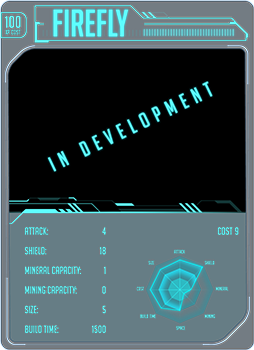
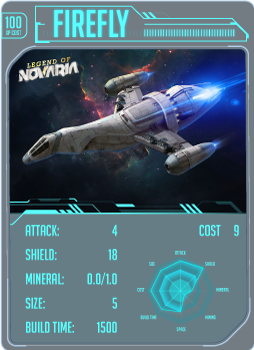
update header, shipyard cards

diff --git a/src/views/Novaria/Novaria.tsx b/src/views/Novaria/Novaria.tsx
@@ -12,32 +12,6 @@ import logo from './assets/novariaLogoMain.png'
 import 'react-modal-video/scss/modal-video.scss'
 
 
-
-const WalletProvider = ({ children }) => {
-  const wallet = useWallet()
-
-  if (wallet.status === 'connecting') {
-    return <PageLoader />
-  }
-
-  if (
-    wallet.status === 'disconnected' ||
-    wallet.status === 'error' ||
-    (wallet.status === 'connected' && wallet.account === null)
-  ) {
-    if (wallet.error) {
-      console.log(wallet.error)
-    }
-    return (
-      <Page style={{ display: 'flex', justifyContent: 'center', alignItems: 'center' }}>
-        <Text fontSize="3rem">Please, connect your wallet.</Text>
-      </Page>
-    )
-  }
-
-  return <ConnectedAccountContext.Provider value={wallet.account}>{children}</ConnectedAccountContext.Provider>
-}
-
 const Page1 = styled(Page)`
   // background-image:url('/images/home/mainBackground-dark.jpg');
   // background-size:cover ;
@@ -121,7 +95,7 @@ const Button = styled.button`
 const Novaria: React.FC = () => {
   const account = useContext(ConnectedAccountContext)
   const [isOpen, setOpen] = useState(false)
-  const [pendingTx, setPendingTx] = useState(false)
+  const [pending, setPendingTx] = useState(false)
   const [name, setName] = useState('')
 
   const fleetContract = getFleetAddress()
@@ -132,7 +106,7 @@ const Novaria: React.FC = () => {
   const allowanceFleet = useGetAllowance(fleetContract)
   const allowanceMap = useGetAllowance(mapContract)
   const allowanceTreasury = useGetAllowance(treasuryContract)
-  const isAllowed =  allowanceTreasury > 0 && allowanceFleet > 0 && allowanceMap > 0
+  const isAllowed =  allowanceTreasury > 0 && allowanceFleet > 0 
   const playerExists = useGetPlayerExists(account)
   console.log('allowed, exists', isAllowed, playerExists)
   const { onClick } = useApprove()
@@ -187,18 +161,17 @@ const Novaria: React.FC = () => {
             videoId="VRH2LvKXKEQ"
             onClose={() => setOpen(false)}
           />
-          <SubHeading>
+         <SubHeading>
             {!isAllowed && 'Step 1 - approve Fleet, Treasury, and Map contracts for the game'}<br />
-          {allowanceFleet <= 0 ? <Button onClick={handleFleetApprove}>Approve Fleet Contract</Button> : ''}
-          {allowanceTreasury <= 0 ? <Button onClick={handleTreasuryApprove}>Approve Treasury Contract</Button> : ''}
-          {allowanceMap <= 0 ? <Button onClick={handleMapApprove}>Approve Map Contract</Button> : ''}
+          {allowanceFleet <= 0 ? <Button onClick={handleFleetApprove}>{!pending ? 'Approve Fleet Contract' : 'pending...'}</Button> : ''}
+          {allowanceTreasury <= 0 ? <Button onClick={handleTreasuryApprove}>{!pending ? 'Approve Treasury Contract' : 'pending...'}</Button> : ''}
 
           {/* Eventually this needs to have a confirm popup to make sure name set correctly */}
           {isAllowed && !playerExists ? 
             <div>
               Step 2 - Set your player name <br />
               <input type="text" required maxLength={16} onChange={(e) => setName(e.target.value)} />
-              <Button onClick={sendInsertCoinTx}>Set Player Name</Button>
+              <Button onClick={sendInsertCoinTx}>{!pending ? 'Set Player Name' : 'pending...'}</Button>
               <br />(costs 1 nova)
             </div> : ''}
           {playerExists ? <a href='/overview'><Button>Start Game</Button></a> : ''}
@@ -209,7 +182,8 @@ const Novaria: React.FC = () => {
           <Button type="button" onClick={()=> {setOpen(true)}} >Trailer</Button>
           <a href='https://discord.gg/vQdxbGx9pV' rel='noopener noreferrer' target='blank'><Button type="button" >Official Discord</Button></a>
           
-          </SubHeading></Column>
+          </SubHeading>
+          </Column>
       </Body>
     </Page1>
   )

diff --git a/src/views/Novaria/Map/Map.tsx b/src/views/Novaria/Map/Map.tsx
@@ -1,6 +1,5 @@
 import React, { useEffect, useState, useContext } from 'react'
 import { Link } from 'react-router-dom'
-import { Text, useModal } from '@pancakeswap-libs/uikit'
 import { ConnectedAccountContext } from 'App'
 import { useGetFleetLocation, useGetFleetMineral, useGetPlayer } from 'hooks/useNovaria'
 import styled from 'styled-components'
@@ -47,7 +46,7 @@ export interface GridProps {
 }
 
 const Page = styled.div`
-  background-image: url('/images/novaria/mapBG.jpg');
+  // background-image: url('/images/novaria/mapBG.jpg');
   background-size: cover;
   font-size: 15px;
   color: #5affff;
@@ -61,6 +60,11 @@ const Body = styled.div`
   display: flex;
   flex-direction: column;
   margin: 10px 0px 0px 0px;
+`
+
+const Text = styled.text`
+  color: #5affff;
+  font-weight: medium;
 `
 
 const Grid = styled.div`
@@ -318,8 +322,9 @@ const Map: React.FC = () => {
 
   }
 
-  const playerEXP = useGetPlayer(account.toString()).experience
-
+  const player = useGetPlayer(account.toString())
+  const playerEXP = player.experience
+  const playerName = player.name
 
   if (!mapData) {
     return null
@@ -330,7 +335,7 @@ const Map: React.FC = () => {
   return (
     <Page >
       <FlipScreenModal isMobile={isMobile}/>
-      <GameHeader location={fleetLocation} playerMineral={fleetMineral} exp={playerEXP} />
+      <GameHeader location={fleetLocation} playerMineral={fleetMineral} exp={playerEXP}  playerName={playerName} />
       <MainRow>
         <GameMenu pageName="starmap" />
         <Body>
@@ -347,7 +352,7 @@ const Map: React.FC = () => {
                       }}
                     >
                       <GridCellContent aria-haspopup="true">
-                        <Text bold glowing>
+                        <Text >
                           {planet.name}
                         </Text>
                         {/* <Unexplored>
@@ -358,6 +363,11 @@ const Map: React.FC = () => {
                           {planet.hasRefinery === true && <GridIcon src={refineryLogo} alt="planet has refinery" />}
                           {planet.hasShipyard === true && <GridIcon src={shipyardLogo} alt="planet has shipyard" />}
                           {planet.availableMineral > 0 && <GridIcon src={mineralLogo} alt="planet has minerals" />}
+                          {planet.placeType === '5' && <GridCellImg src={asteroid} alt="asteroid" />}
+                          {(Number(ry)+Number(mapData.y0)).toString() === fleetLocation.Y.toString() &&
+                            (Number(x)+Number(mapData.x0)).toString() === fleetLocation.X.toString() && (
+                              <IndicatorImg src={youLogo} alt="current location" />
+                            )}
 
                           {planet.fleetCount > 0 && planet.fleetCount < 11 && (
                             <GridIcon src={lowPlayers} alt="planet has few players" />
@@ -379,11 +389,6 @@ const Map: React.FC = () => {
                           ) : (
                             ''
                           )}
-                          {planet.placeType === '5' && <GridCellImg src={asteroid} alt="asteroid" />}
-                          {(Number(ry)+Number(mapData.y0)).toString() === fleetLocation.Y.toString() &&
-                            (Number(x)+Number(mapData.x0)).toString() === fleetLocation.X.toString() && (
-                              <IndicatorImg src={youLogo} alt="current location" />
-                            )}
                         </Row>
                         <GridCellId>
                           ( {Number(x)+Number(mapData.x0) } ,{Number(ry)+Number(mapData.y0)})

diff --git a/src/views/Novaria/components/GameHeader.tsx b/src/views/Novaria/components/GameHeader.tsx
@@ -56,12 +56,15 @@ const ConnectButton = styled.button`
   width: 125px;
 `
 
-const GameHeader = ({ location, playerMineral, exp }) => {
+const GameHeader = ({ location, playerMineral, exp, playerName }) => {
   const { account, connect, reset, status } = useWallet()
   const { onPresentConnectModal } = useWalletModal(connect, reset)
   const novaBalance = getBalanceNumber(useTokenBalance(getNovaAddress()))
   const novaPrice = Number(usePriceNovaBusd()).toFixed(3)
 
+  const logout = async () => {
+    reset()
+  }
   const inBattle = useGetPlayerBattleStatus(account)
   const connected = status === 'connected'
   // eslint-disable-next-line prefer-template
@@ -73,8 +76,6 @@ const GameHeader = ({ location, playerMineral, exp }) => {
         <Logo src={smallLogo} alt="Novaria Logo" />
       </a>
       <InfoBlock>
-        {!connected && <ConnectButton onClick={onPresentConnectModal}>Connect Wallet</ConnectButton>}
-        {connected && <ConnectButton onClick={reset}>{accountAddress}</ConnectButton>}
         <div style={{ flexDirection: 'row', display: 'flex', alignItems: 'center' }}>
         <a href='https://poocoin.app/tokens/0x56e344be9a7a7a1d27c854628483efd67c11214f' target='blank' rel='noreferrer noopener'  >
           <img src="https://shibanova.io/logo.png" alt="nova logo" style={{ height: 30, margin: 5 }} /> 
@@ -84,7 +85,7 @@ const GameHeader = ({ location, playerMineral, exp }) => {
         </a>
         </div>
         <Text glowing>
-          NOVA Balance: <span style={{ color: 'gold' }}>{novaBalance.toFixed(2)}</span>
+          NOVA: <span style={{ color: 'gold' }}>{novaBalance.toFixed(2)}</span>
         </Text>
         <Text glowing>
           MINERAL: <span style={{ color: 'gold' }}>{(playerMineral / 10 ** 18).toFixed(3)}</span>
@@ -93,8 +94,13 @@ const GameHeader = ({ location, playerMineral, exp }) => {
           EXP: <span style={{ color: 'gold' }}>{exp}</span>
         </Text>
         <Text glowing>
-          Current Location: ({location.X}, {location.Y})
+          Location: ({location.X}, {location.Y})
         </Text>
+        <Text glowing>
+        <span style={{ color: 'gold' }}>{playerName}</span>
+        </Text>
+        {!connected && <ConnectButton onClick={onPresentConnectModal}>Connect Wallet</ConnectButton>}
+        {connected && <ConnectButton onClick={logout}>{accountAddress}</ConnectButton>}
       </InfoBlock>
     </Hero>
   )

diff --git a/src/views/Novaria/Location/Location.tsx b/src/views/Novaria/Location/Location.tsx
@@ -37,7 +37,7 @@ import ShipyardTakeover from './ShipyardTakeover'
 const Page = styled.div`
   font-family: 'BigNoodle', sans-serif;
 
-  background-image: url('/images/novaria/mapBG.jpg');
+ // background-image: url('/images/novaria/mapBG.jpg');
   background-size: cover;
 
   font-size: 15px;
@@ -191,7 +191,9 @@ const Location: React.FC = () => {
   const currentMiningCooldown = new Date(useGetCurrentMiningCooldown(account) * 1000)
   const playerBattleStatus = useGetPlayerBattleStatus(account)
   const playerBattleInfo = useGetPlayerBattle(account)
-  const playerEXP = useGetPlayer(account).experience
+  const player = useGetPlayer(account.toString())
+  const playerEXP = player.experience
+  const playerName = player.name
   const shipyards = useGetShipyards()
   const isDiscoverer = placeInfo.discoverer === account
 
@@ -199,7 +201,7 @@ const Location: React.FC = () => {
 
   return (
     <Page className="fontsforweb_bignoodletitling">
-      <GameHeader location={fleetLocation} playerMineral={fleetMineral} exp={playerEXP} />
+      <GameHeader location={fleetLocation} playerMineral={fleetMineral} exp={playerEXP}  playerName={playerName} />
       <Row>
         <GameMenu pageName="location" />
         <Body>

diff --git a/src/views/Novaria/Shipyard/Shipyard.tsx b/src/views/Novaria/Shipyard/Shipyard.tsx
@@ -38,7 +38,7 @@ import fireflyQueue from '../assets/fireflyQueue.png'
 import YourFleetStats from '../Location/YourFleetStats'
 
 const Page = styled.div`
-  background-image: url('/images/novaria/shipyardBG.jpg');
+  // background-image: url('/images/novaria/shipyardBG.jpg');
   background-size: cover;
 
   font-size: 15px;
@@ -300,7 +300,9 @@ const Shipyard = () => {
   const miningCapacity = useGetMiningCapacity(account)
   const fleetLocation = useGetFleetLocation(account)
   const fleetMineral = useGetFleetMineral(account)
-  const playerEXP = useGetPlayer(account.toString()).experience
+  const player = useGetPlayer(account.toString())
+  const playerEXP = player.experience
+  const playerName = player.name
 
   const [shipyard, setShipyard] = useState(null)
   const [shipyardName, setShipyardName] = useState(null)
@@ -481,7 +483,7 @@ const Shipyard = () => {
 
   return (
     <Page>
-      <GameHeader location={fleetLocation} playerMineral={fleetMineral} exp={playerEXP} />
+      <GameHeader location={fleetLocation} playerMineral={fleetMineral} exp={playerEXP} playerName={playerName} />
       <PageRow>
         <GameMenu pageName="shipyard" />
 

diff --git a/src/App.tsx b/src/App.tsx
@@ -1,6 +1,6 @@
 import React, { Suspense, lazy } from 'react'
 import { BrowserRouter as Router, Route, Switch } from 'react-router-dom'
-import { ResetCSS, Text } from '@pancakeswap-libs/uikit'
+import { ResetCSS, Text, Button, useWalletModal } from '@pancakeswap-libs/uikit'
 import BigNumber from 'bignumber.js'
 import { useFetchPublicData } from 'state/hooks'
 import useEagerConnect from 'hooks/useEagerConnect'
@@ -15,6 +15,8 @@ export const ConnectedAccountContext = React.createContext<string | null>(null)
 
 const WalletProvider = ({ children }) => {
   const wallet = useWallet()
+  const {connect, reset} = useWallet()
+  const { onPresentConnectModal } = useWalletModal(connect, reset)
 
   if (wallet.status === 'connecting') {
     return <PageLoader />
@@ -30,7 +32,7 @@ const WalletProvider = ({ children }) => {
     }
     return (
       <Page style={{ display: 'flex', justifyContent: 'center', alignItems: 'center' }}>
-        <Text fontSize="3rem">Please, connect your wallet.</Text>
+        <Button onClick={onPresentConnectModal}>Please Connect Wallet</Button>
       </Page>
     )
   }

diff --git a/src/views/Novaria/Overview/Overview.tsx b/src/views/Novaria/Overview/Overview.tsx
@@ -7,7 +7,7 @@ import GameMenu from '../components/GameMenu'
 import logo from '../assets/novariaLogoMain.png'
 
 const Page = styled.div`
-  background-image: url('/images/novaria/shipyardBG.jpg');
+  // background-image: url('/images/novaria/shipyardBG.jpg');
   background-size: cover;
   color: #5affff;
   display: flex;
@@ -45,11 +45,13 @@ const Overview: React.FC = () => {
   const account = useContext(ConnectedAccountContext)
   const fleetLocation = useGetFleetLocation(account)
   const fleetMineral = useGetFleetMineral(account)
-  const playerEXP = useGetPlayer(account.toString()).experience
+  const player = useGetPlayer(account.toString())
+  const playerEXP = player.experience
+  const playerName = player.name
 
   return (
     <Page>
-      <GameHeader location={fleetLocation} playerMineral={fleetMineral} exp={playerEXP} />
+      <GameHeader location={fleetLocation} playerMineral={fleetMineral} exp={playerEXP} playerName={playerName} />
       <Row>
         <GameMenu pageName="overview" />
         <Body>
